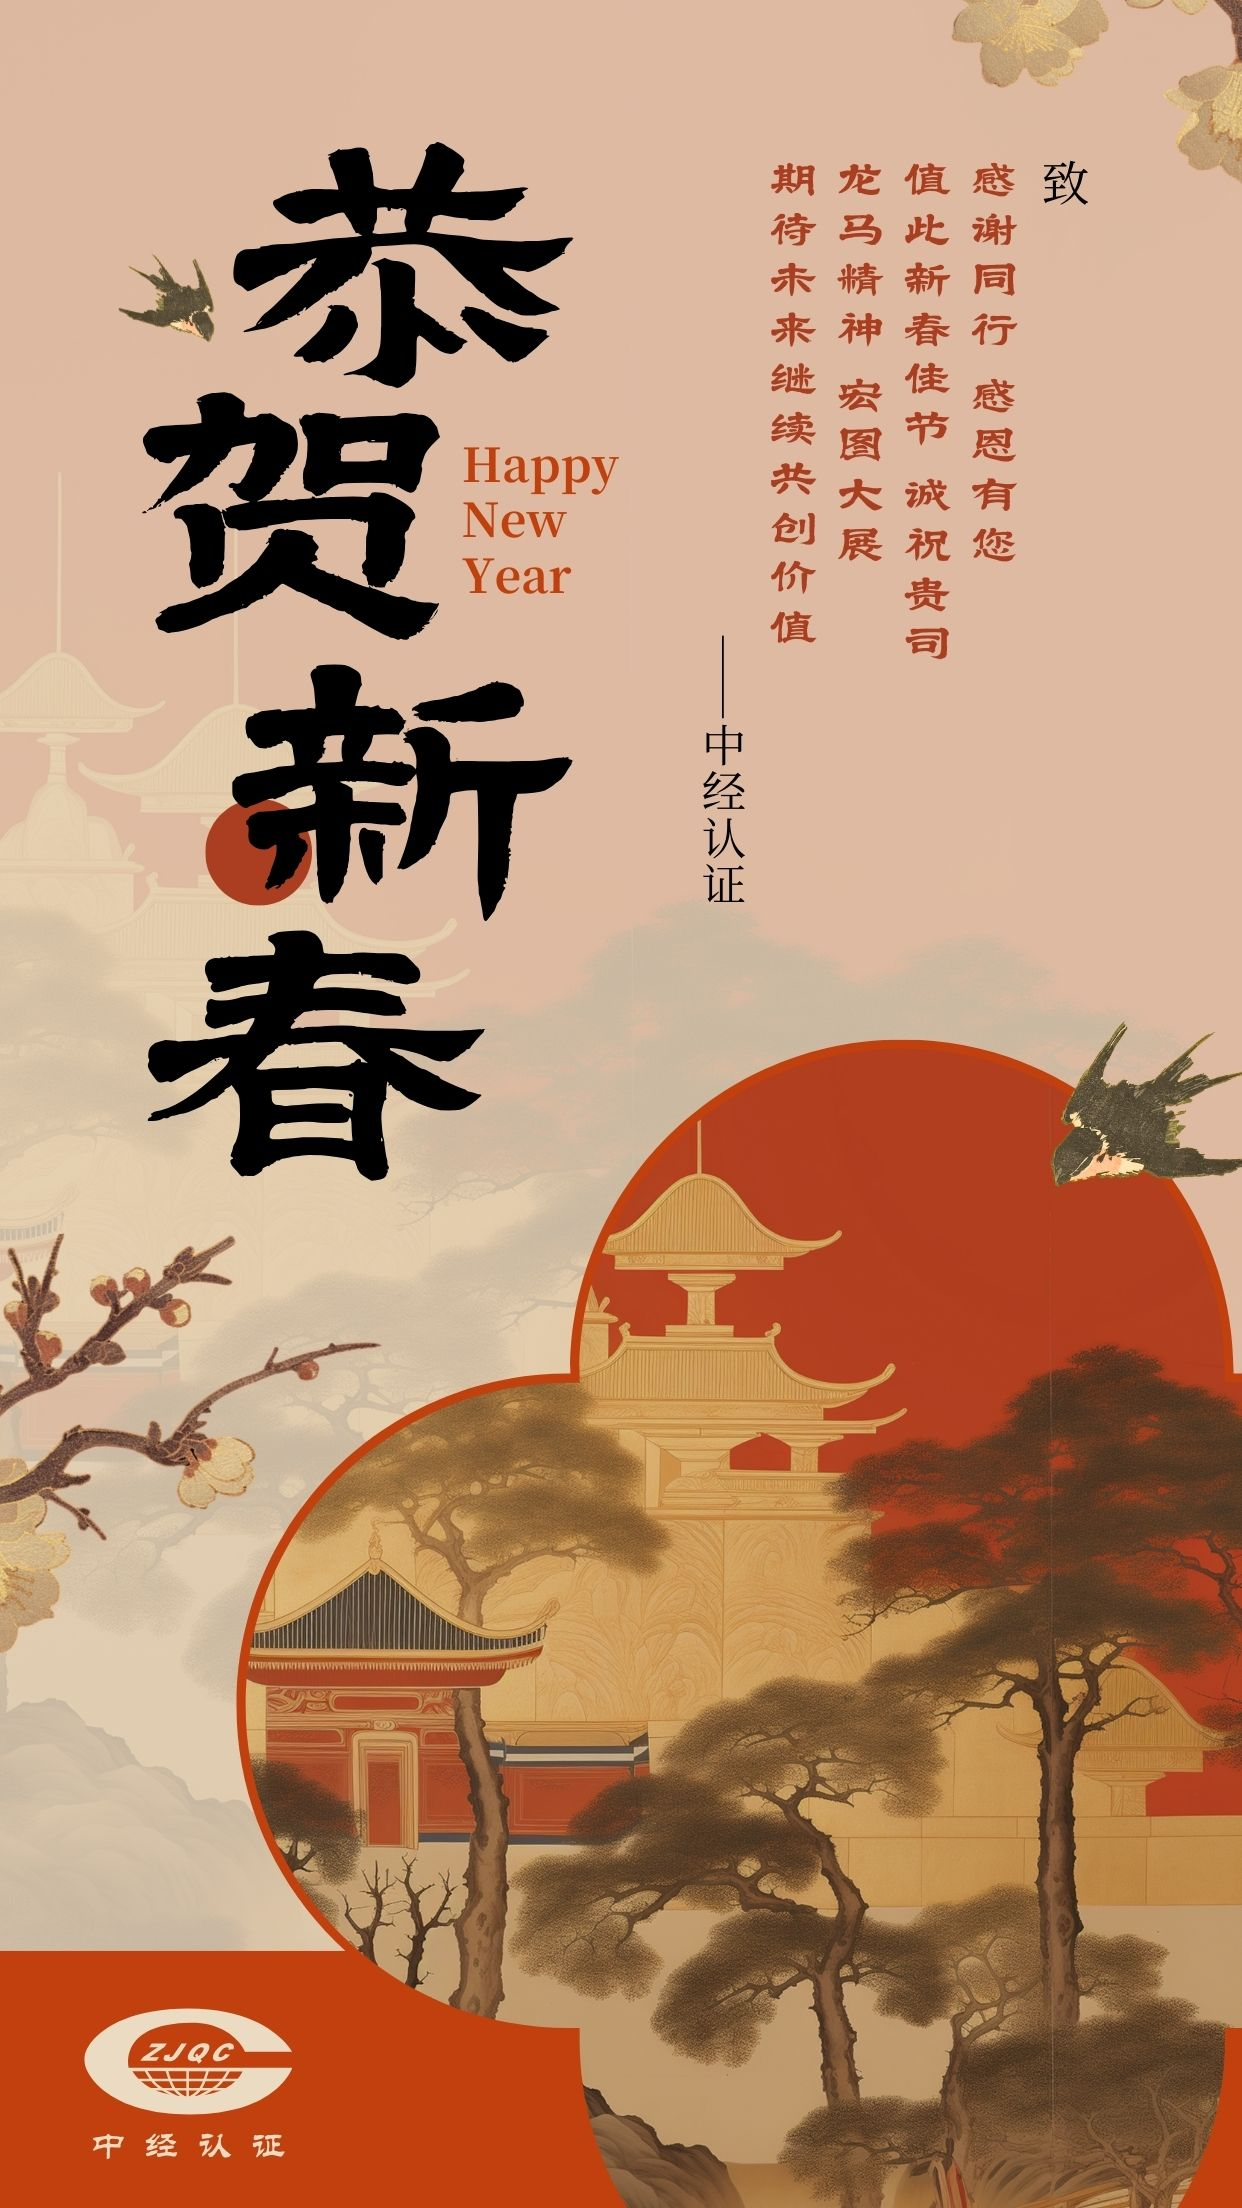
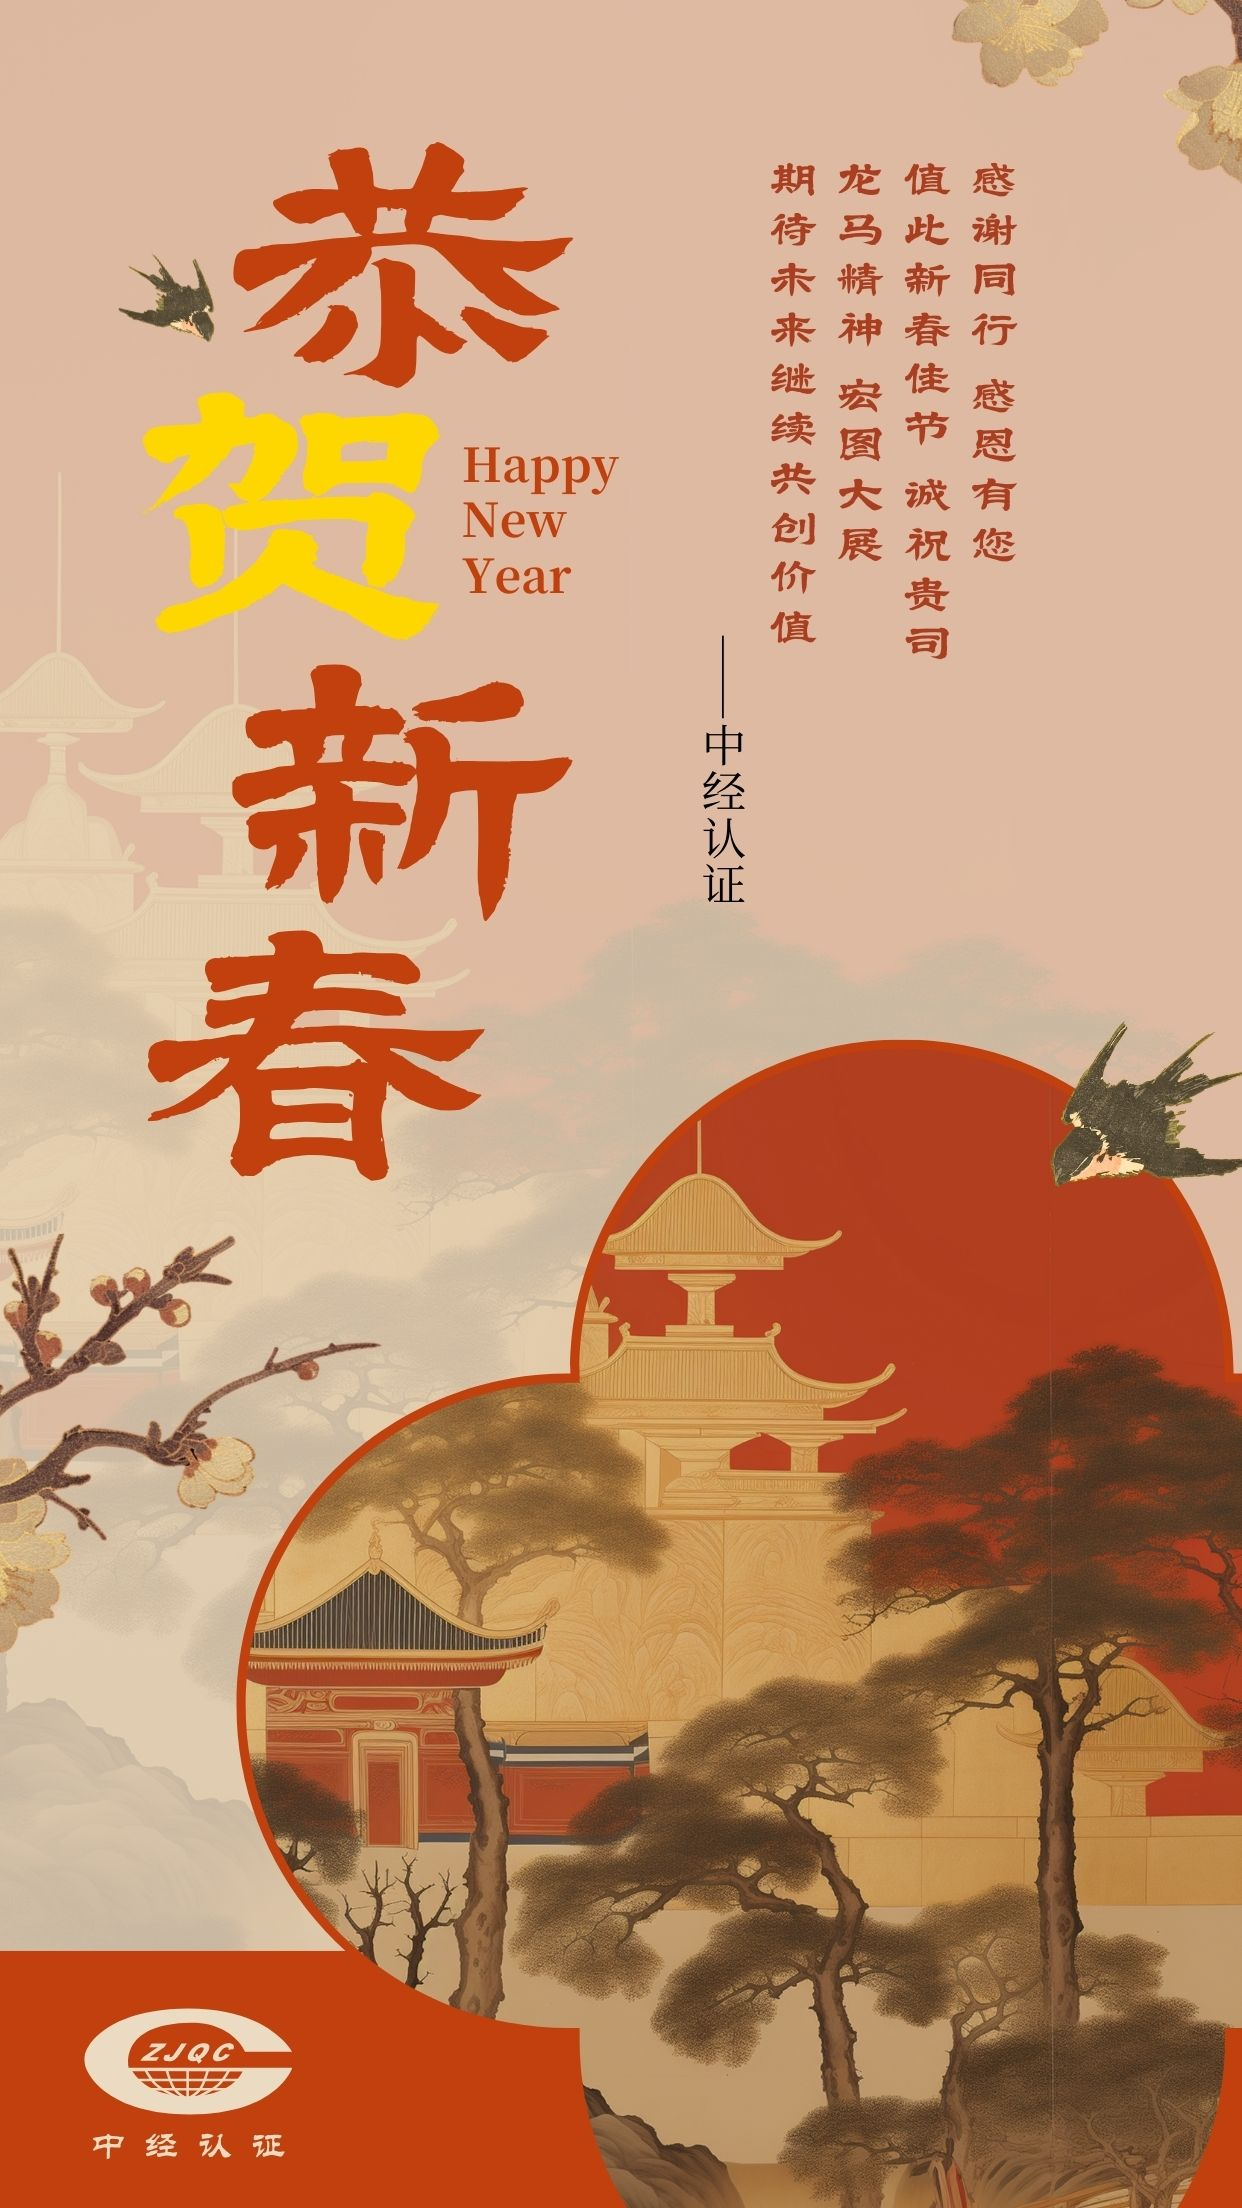
马年贺卡最终版上线

Changed region(s): [[0.0918, 0.0625, 0.4589, 0.5312], [0.8261, 0.0625, 0.8873, 0.0938]]

diff --git a/card/tool.html b/card/tool.html
@@ -3,93 +3,139 @@
 <head>
     <meta charset="UTF-8">
     <meta name="viewport" content="width=device-width, initial-scale=1.0">
-    <title>企业贺卡生成工具-竖排版</title>
+    <title>2026马年贺卡生成工具-xyx@zjqc</title>
     <style>
-        body { font-family: 'PingFang SC', 'Microsoft YaHei', sans-serif; display: flex; flex-direction: column; align-items: center; padding: 20px; background: #fdf2f2; }
-        .box { background: white; padding: 30px; border-radius: 20px; box-shadow: 0 10px 30px rgba(0,0,0,0.08); width: 340px; text-align: center; margin-bottom: 20px; }
-        h2 { color: #c0392b; margin-top: 0; font-size: 20px; }
-        .input-group { margin: 20px 0; }
-        input { padding: 14px; width: 85%; border: 2px solid #f5c6c6; border-radius: 10px; outline: none; font-size: 16px; }
-        button { padding: 14px; background: #e74c3c; color: white; border: none; border-radius: 10px; cursor: pointer; width: 95%; font-weight: bold; font-size: 16px; }
-        #previewCanvas { max-width: 100%; border-radius: 12px; box-shadow: 0 8px 25px rgba(0,0,0,0.15); display: none; margin-top: 20px; }
-        .copyright { margin-top: 25px; font-size: 11px; color: #999; }
-        .tip { font-size: 13px; color: #e67e22; margin-top: 15px; }
+        body { font-family: 'PingFang SC', 'Microsoft YaHei', sans-serif; display: flex; flex-direction: column; align-items: center; padding: 20px; background: rgb(216, 187, 165); }
+        .box { background: rgba(255,255,255,0.95); padding: 30px; border-radius: 20px; box-shadow: 0 10px 30px rgba(0,0,0,0.1); width: 340px; text-align: center; }
+        h2 { color: rgb(33, 44, 53); margin-top: 0; font-size: 20px; }
+        input { padding: 14px; width: 85%; border: 1px solid #ccc; border-radius: 10px; outline: none; font-size: 16px; margin: 15px 0; }
+        button { padding: 14px; background: rgb(33, 44, 53); color: white; border: none; border-radius: 10px; cursor: pointer; width: 95%; font-weight: bold; font-size: 16px; }
+        button:active { transform: scale(0.98); }
+        canvas { max-width: 100%; border-radius: 5px; box-shadow: 0 8px 25px rgba(0,0,0,0.2); display: none; margin-top: 20px; cursor: pointer; }
+        .copyright { margin-top: 25px; font-size: 11px; color: #666; }
     </style>
 </head>
 <body>
     <div class="box">
-        <h2>🧧 企业贺卡生成器 (竖排落款)</h2>
-        <div class="input-group">
-            <input type="text" id="custName" placeholder="输入长企业名称 (如: 某某集团某某分公司)">
-        </div>
-        <button onclick="generateAndDownload()">生成高清贺卡图片</button>
-        <p id="statusTip" class="tip" style="display:none;">✅ 生成成功！图片已自动下载</p>
-        <div class="copyright">制作xyx@zjqc，仅供2026春节企业问候使用</div>
+        <h2>🧧 2026丙午马年贺卡制作</h2>
+        <input type="text" id="custName" placeholder="请输入客户企业名称">
+        <button onclick="generate()">生成贺卡</button>
+        <div class="copyright">制作xyx@zjqc</div>
     </div>
-
-    <canvas id="previewCanvas"></canvas>
+    <canvas id="previewCanvas" onclick="downloadImg()"></canvas>
 
     <script>
-        async function generateAndDownload() {
-            const name = document.getElementById('custName').value;
-            if(!name) return alert('请先输入客户名称');
+        async function generate() {
+            const nameInput = document.getElementById('custName').value.trim();
+            const safeName = nameInput.replace(/[\\/:*?"<>|：]/g, '');
+            if(!safeName) return alert('请输入名称');
 
             const canvas = document.getElementById('previewCanvas');
             const ctx = canvas.getContext('2d');
-            
             const img = new Image();
-            img.crossOrigin = "anonymous"; 
-            img.src = "bg.jpg"; // 确保此路径下有你的背景图
+            img.crossOrigin = "anonymous";
+            // 自动清理缓存
+            img.src = "bg.jpg?t=" + new Date().getTime();
 
             img.onload = function() {
                 canvas.width = img.width;
                 canvas.height = img.height;
                 ctx.drawImage(img, 0, 0);
 
-                // --- 竖排文字逻辑设定 ---
-                // 1. 根据图片宽度设定字号 (5%)
-                const fontSize = Math.floor(canvas.width * 0.05); 
-                ctx.fillStyle = "#D4AF37"; // 金色文字
-                // 优先调用楷体，更有书法感
-                ctx.font = `bold ${fontSize}px "STKaiti", "KaiTi", "Microsoft YaHei", serif`;
-                ctx.textAlign = "center";
-                ctx.textBaseline = "top";
+                // --- 1. 参数设定 ---
+                const fontSize = 42; 
+                const originalStartY = (canvas.height * 0.076) - 6; 
+                const bottomLimit = canvas.height * 0.464; 
+                const chars = safeName.split('');
+                
+                let startX = (canvas.width * 0.854) + 21; 
+                if (chars.length > 9) { startX += 45; }
 
-                // 2. 设定落款位置 (假设放在图片右侧 85% 处)
-                let startX = canvas.width * 0.85; 
-                let startY = canvas.height * 0.15; // 从上方 15% 处开始
-                const maxColumnHeight = canvas.height * 0.6; // 单列最大长度占 60%
-                const lineSpacing = fontSize * 1.3; // 字间距
-                const columnSpacing = fontSize * 1.5; // 列间距 (写不下时往左移)
+                const lineSpacing = fontSize * 1.15; 
+                const columnSpacing = fontSize * 1.4; 
+                const zhiToNameGap = 65; 
 
-                // 3. 拆分字符并绘制
-                const chars = name.split('');
-                let currentX = startX;
-                let currentY = startY;
-
+                // --- 2. 预计算排版 ---
+                let curX = startX, curY = originalStartY + zhiToNameGap, columnsX = [startX]; 
                 chars.forEach((char) => {
-                    // 检查当前列是否写满，写满则换下一列（向左移）
-                    if (currentY - startY > maxColumnHeight) {
-                        currentX -= columnSpacing;
-                        currentY = startY;
+                    if (curY + lineSpacing > bottomLimit) {
+                        curX -= columnSpacing;
+                        curY = originalStartY + zhiToNameGap;
+                        if(!columnsX.includes(curX)) columnsX.push(curX);
                     }
-                    ctx.fillText(char, currentX, currentY);
-                    currentY += lineSpacing;
+                    curY += lineSpacing;
+                });
+                const centerX = (Math.min(...columnsX) + Math.max(...columnsX)) / 2;
+
+                // --- 3. 绘制函数 ---
+                const drawText = (text, x, y, font) => {
+                    ctx.font = font;
+                    ctx.textAlign = "center";
+                    ctx.textBaseline = "top";
+                    // 玄青色
+                    ctx.fillStyle = "rgba(33, 44, 53, 0.92)"; 
+                    ctx.fillText(text, x, y);
+                };
+
+                // 绘制“致”
+                drawText("致", centerX, originalStartY, `bold 34px "LiSu", "Baoli SC", "楷体", serif`);
+
+                // 绘制名字
+                curX = startX; curY = originalStartY + zhiToNameGap;
+                chars.forEach((char) => {
+                    if (curY + lineSpacing > bottomLimit) {
+                        curX -= columnSpacing; 
+                        curY = originalStartY + zhiToNameGap;
+                    }
+                    drawText(char, curX, curY, `bold ${fontSize}px "LiSu", "Baoli SC", "楷体", serif`);
+                    curY += lineSpacing;
                 });
 
-                // 4. 输出与下载
-                canvas.style.display = "block";
-                document.getElementById('statusTip').style.display = "block";
-                const dataURL = canvas.toDataURL('image/jpeg', 0.95);
-                const link = document.createElement('a');
-                link.download = `贺卡_${name}.jpg`;
-                link.href = dataURL;
-                link.click();
-            };
+                // --- 4. 绘制马年斑驳印章 ---
+                const sealSize = fontSize * 1.1; 
+                const sealX = curX - sealSize/2;
+                const sealY = curY + 15;
 
-            img.onerror = function() {
-                alert("未找到背景图 bg.jpg，请先上传到底图！");
+                ctx.save();
+                // 绘制朱砂底色
+                ctx.fillStyle = "rgba(171, 49, 33, 0.85)";
+                ctx.fillRect(sealX, sealY, sealSize, sealSize);
+
+                // 斑驳效果
+                ctx.fillStyle = "rgb(216, 187, 165)"; 
+                for (let i = 0; i < 50; i++) {
+                    const rx = sealX + Math.random() * sealSize;
+                    const ry = sealY + Math.random() * sealSize;
+                    ctx.beginPath();
+                    ctx.arc(rx, ry, Math.random() * 2, 0, Math.PI * 2);
+                    ctx.fill();
+                }
+
+                // 龙马精神
+                ctx.fillStyle = "rgba(216, 187, 165, 0.95)"; 
+                ctx.font = `bold ${sealSize * 0.38}px "LiSu", "Baoli SC", serif`;
+                ctx.textAlign = "center"; ctx.textBaseline = "middle";
+                const s = sealSize;
+                ctx.fillText("龙", sealX + s*0.75, sealY + s*0.3);
+                ctx.fillText("马", sealX + s*0.25, sealY + s*0.3);
+                ctx.fillText("精", sealX + s*0.75, sealY + s*0.75);
+                ctx.fillText("神", sealX + s*0.25, sealY + s*0.75);
+                ctx.restore();
+
+                canvas.style.display = "block";
+                canvas.setAttribute('data-name', safeName);
+                setTimeout(downloadImg, 300);
             };
+            img.onerror = () => alert("错误：请确保文件夹内有名为 bg.jpg 的底图！");
+        }
+
+        function downloadImg() {
+            const canvas = document.getElementById('previewCanvas');
+            const safeName = canvas.getAttribute('data-name') || "贺卡";
+            const link = document.createElement('a');
+            link.download = `2026马年贺卡_${safeName}.jpg`;
+            link.href = canvas.toDataURL('image/jpeg', 0.95);
+            link.click();
         }
     </script>
 </body>
